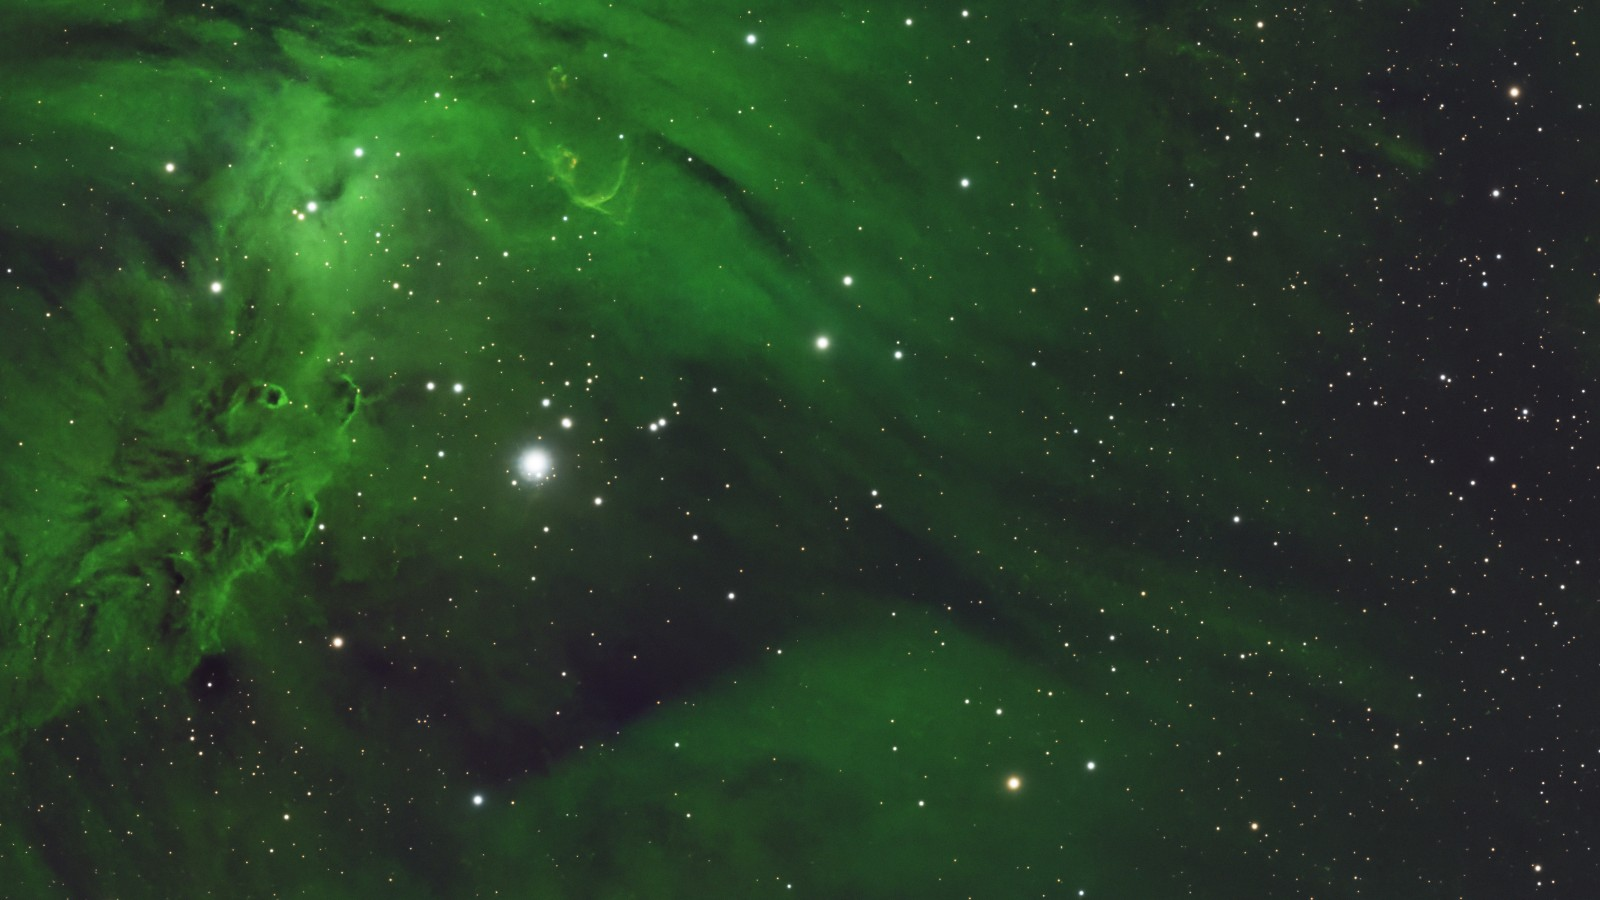
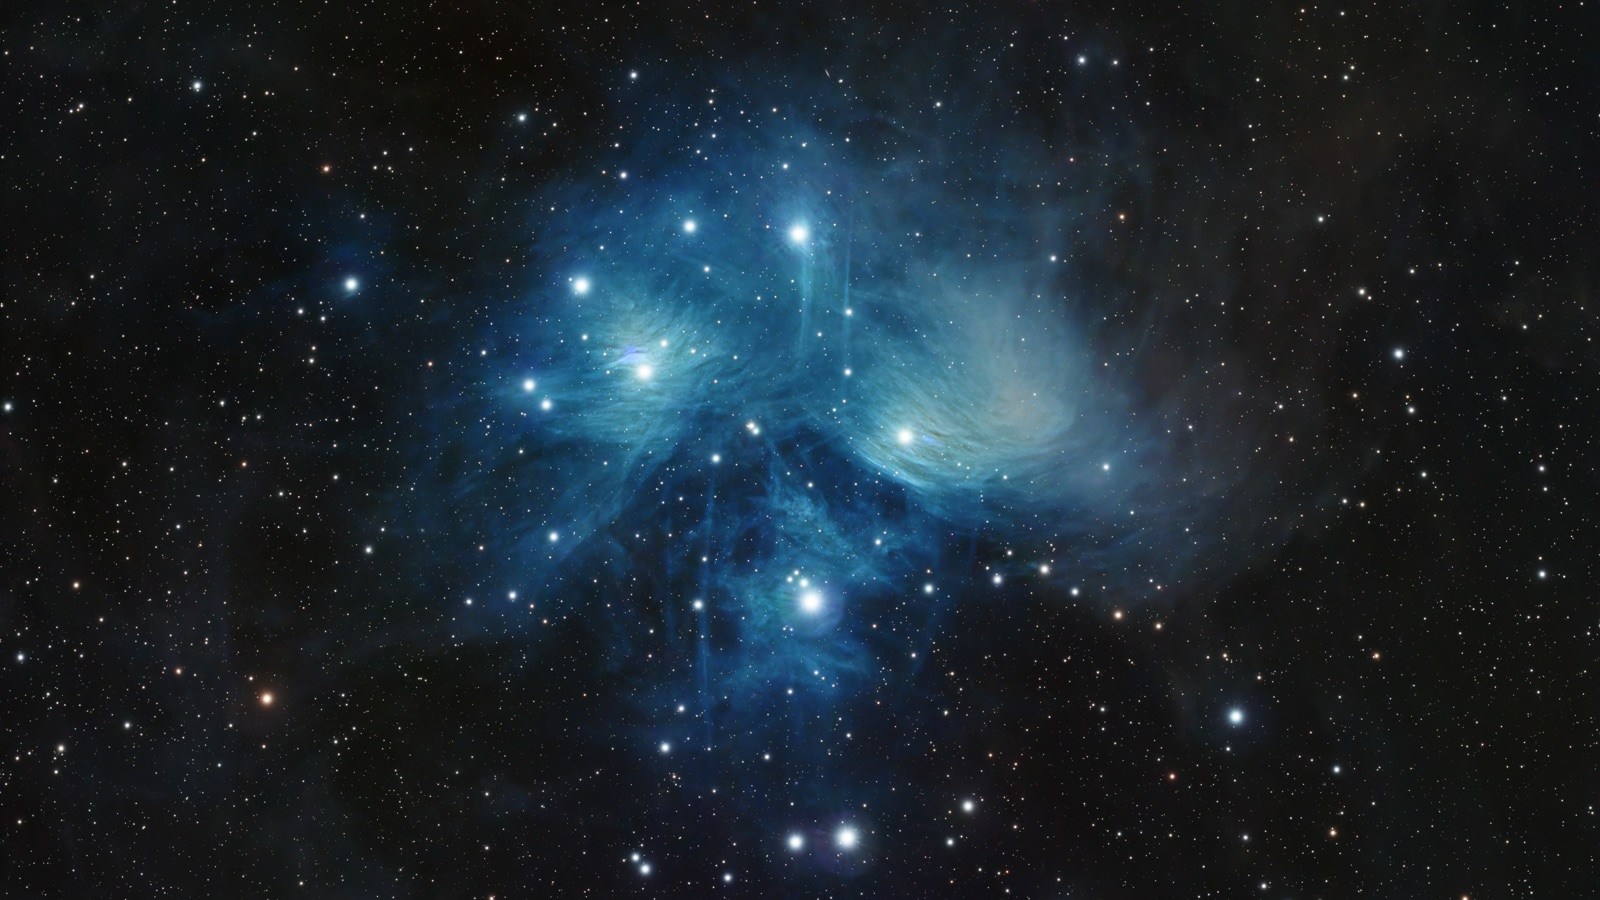
feat(astrospike): open on a bundled Pleiades sample, and give the hub the real stills
The studio now loads a compressed Pleiades frame (2400px, ~580 KB) on
startup via an app initializer, so a first-time visitor sees spikes on real
stars without hunting for an astrophoto. The sample is fetched fire-and-
forget: bootstrap never waits on it, the user's own drop always wins the
race, and a failed fetch just leaves the dropzone. Removing the image brings
the dropzone back. The image-loaded analytics event now carries a
user/sample source so sample pageviews never read as uploads.

The hub tool page's demo and Before/After pair swap the placeholder render
for the real thing: the Pleiades original and the exported spiked result,
cropped identically so the pair aligns. The app's OG image follows suit.
The hub visual baseline is deleted for CI to reseed, and the e2e page
object treats the sample-loaded studio as the ready state (uploading clears
whatever is loaded first).

diff --git a/tools/astrospike/src/app/services/spike-editor.service.ts b/tools/astrospike/src/app/services/spike-editor.service.ts
@@ -18,6 +18,7 @@ import {
   MANUAL_STAR_SNAP_RADIUS_PX,
   MANUAL_STAR_WINDOW_RADIUS_PX,
 } from '../constants/manual-star.constants';
+import { SAMPLE_IMAGE_FILE_NAME, SAMPLE_IMAGE_URL } from '../constants/sample-image.constants';
 import { DEFAULT_STAR_ADJUSTMENT } from '../constants/star-adjustment.constants';
 import { DetectedStar } from '../models/detected-star.model';
 import { StarDetectionError, SupersededError } from '../models/detection.error';
@@ -287,6 +288,33 @@ export class SpikeEditorService implements OnDestroy {
   // ==================== Image Lifecycle ====================
 
   /**
+   * Fetches the bundled sample astrophoto and loads it exactly as a dropped
+   * file, so a first-time visitor sees spikes on real stars immediately.
+   *
+   * A nicety, not a requirement: if the user beats the fetch with their own
+   * image the sample steps aside, and if the fetch fails the studio simply
+   * opens on the dropzone — the failure is logged, never shown.
+   */
+  async loadSampleImage(): Promise<void> {
+    try {
+      const response = await fetch(SAMPLE_IMAGE_URL);
+      if (!response.ok) {
+        throw new Error(`Sample image responded ${response.status}`);
+      }
+      const blob = await response.blob();
+      if (this.hasImage() || this.isImageLoading()) {
+        return; // The user already loaded their own image; theirs wins.
+      }
+      await this.loadImage(
+        new File([blob], SAMPLE_IMAGE_FILE_NAME, { type: blob.type || 'image/jpeg' }),
+        'sample',
+      );
+    } catch (error) {
+      console.error('Failed to load the sample image:', error);
+    }
+  }
+
+  /**
    * Loads a new image and runs star detection on it exactly once.
    *
    * Resets overrides, hover, compare, and errors up front. Every terminal
@@ -295,8 +323,10 @@ export class SpikeEditorService implements OnDestroy {
    * run never disturbs a newer one).
    *
    * @param file The user-selected image file.
+   * @param source Where the image came from — the bundled sample or the user.
+   *   Carried into analytics so sample pageviews never read as user uploads.
    */
-  async loadImage(file: File): Promise<void> {
+  async loadImage(file: File, source: 'user' | 'sample' = 'user'): Promise<void> {
     const generation = ++this.loadGeneration;
     this.resetInteractionState();
     this.imageError.set(null);
@@ -336,6 +366,7 @@ export class SpikeEditorService implements OnDestroy {
           width: loaded.meta.width,
           height: loaded.meta.height,
           starCount: stars.length,
+          source,
         });
       }
     } catch (error) {

diff --git a/e2e/pages/astrospike.page.ts b/e2e/pages/astrospike.page.ts
@@ -52,13 +52,13 @@ export class AstroSpikePage {
   }
 
   /**
-   * Navigates to AstroSpike and waits for the empty studio to render. It waits
-   * on the dropzone rather than the controls pane: with no image there is no
-   * pane, by design.
+   * Navigates to AstroSpike and waits for the studio to render. The app loads
+   * the bundled Pleiades sample on startup, so "ready" is the controls pane
+   * appearing — the dropzone only exists after the loaded image is removed.
    */
   async navigate(): Promise<void> {
     await this.page.goto("http://localhost:4202/astrospike/");
-    await expect(this.dropzoneHeading).toBeVisible();
+    await expect(this.controlPanel).toBeVisible({ timeout: 60_000 });
   }
 
   /** Locator for the dropzone headline — visible only before an image loads. */
@@ -71,8 +71,15 @@ export class AstroSpikePage {
     return this.privacyNote;
   }
 
-  /** Loads an image through the dropzone's file input. */
+  /**
+   * Loads an image through the dropzone's file input. The studio opens with
+   * the bundled sample already in place, so whatever is loaded is removed
+   * first to bring the dropzone (and its input) back.
+   */
   async loadImage(absolutePath: string): Promise<void> {
+    if ((await this.fileInput.count()) === 0) {
+      await this.clearImage();
+    }
     await this.fileInput.waitFor({ state: "attached" });
     await this.fileInput.setInputFiles(absolutePath);
   }

diff --git a/tools/astrospike/src/app/app.config.ts b/tools/astrospike/src/app/app.config.ts
@@ -1,5 +1,7 @@
 import {
   ApplicationConfig,
+  inject,
+  provideAppInitializer,
   provideBrowserGlobalErrorListeners,
   provideZoneChangeDetection,
 } from '@angular/core';
@@ -10,6 +12,7 @@ import {
   provideRouteAnalytics,
 } from '@db-astro-suite/ui';
 import { routes } from './app.routes';
+import { SpikeEditorService } from './services/spike-editor.service';
 
 /** Application-wide providers for the AstroSpike root injector. */
 export const appConfig: ApplicationConfig = {
@@ -19,5 +22,10 @@ export const appConfig: ApplicationConfig = {
     provideRouter(routes),
     { provide: AnalyticsService, useClass: GoogleAnalyticsService },
     provideRouteAnalytics(),
+    // Fire-and-forget (no returned promise): bootstrap must not wait on a
+    // sample download — the studio renders and the image arrives when it does.
+    provideAppInitializer(() => {
+      void inject(SpikeEditorService).loadSampleImage();
+    }),
   ],
 };

diff --git a/e2e/astrospike.spec.ts b/e2e/astrospike.spec.ts
@@ -13,11 +13,15 @@ const STARFIELD_FIXTURE = path.resolve(
 );
 
 test.describe("AstroSpike", () => {
-  test("should offer a dropzone and promise that the image stays local", async ({
+  test("should offer a dropzone that promises the image stays local once the sample is removed", async ({
     page,
   }) => {
     const astroSpike = new AstroSpikePage(page);
     await astroSpike.navigate();
+
+    // The studio opens on the bundled Pleiades sample; removing it is the way
+    // to the dropzone.
+    await astroSpike.clearImage();
 
     await expect(astroSpike.getDropzoneHeading()).toBeVisible();
     await expect(astroSpike.getPrivacyNote()).toBeVisible();

diff --git a/tools/astrospike/src/app/constants/sample-image.constants.ts b/tools/astrospike/src/app/constants/sample-image.constants.ts
@@ -1,0 +1,11 @@
+/**
+ * URL of the bundled sample astrophoto (the Pleiades) loaded on startup so a
+ * first-time visitor sees spikes on real stars before choosing a file.
+ */
+export const SAMPLE_IMAGE_URL = 'assets/img/pleiades-sample.jpg';
+
+/**
+ * File name the sample is loaded under — it flows into the export filename,
+ * so it reads like a real source image rather than a blob.
+ */
+export const SAMPLE_IMAGE_FILE_NAME = 'pleiades-sample.jpg';

diff --git a/tools/astrospike/src/app/services/spike-editor.service.spec.ts b/tools/astrospike/src/app/services/spike-editor.service.spec.ts
@@ -94,6 +94,7 @@ describe('SpikeEditorService', () => {
         width: 8,
         height: 8,
         starCount: STARS.length,
+        source: 'user',
       });
       expect(service.renderParams()).not.toBeNull();
     });
